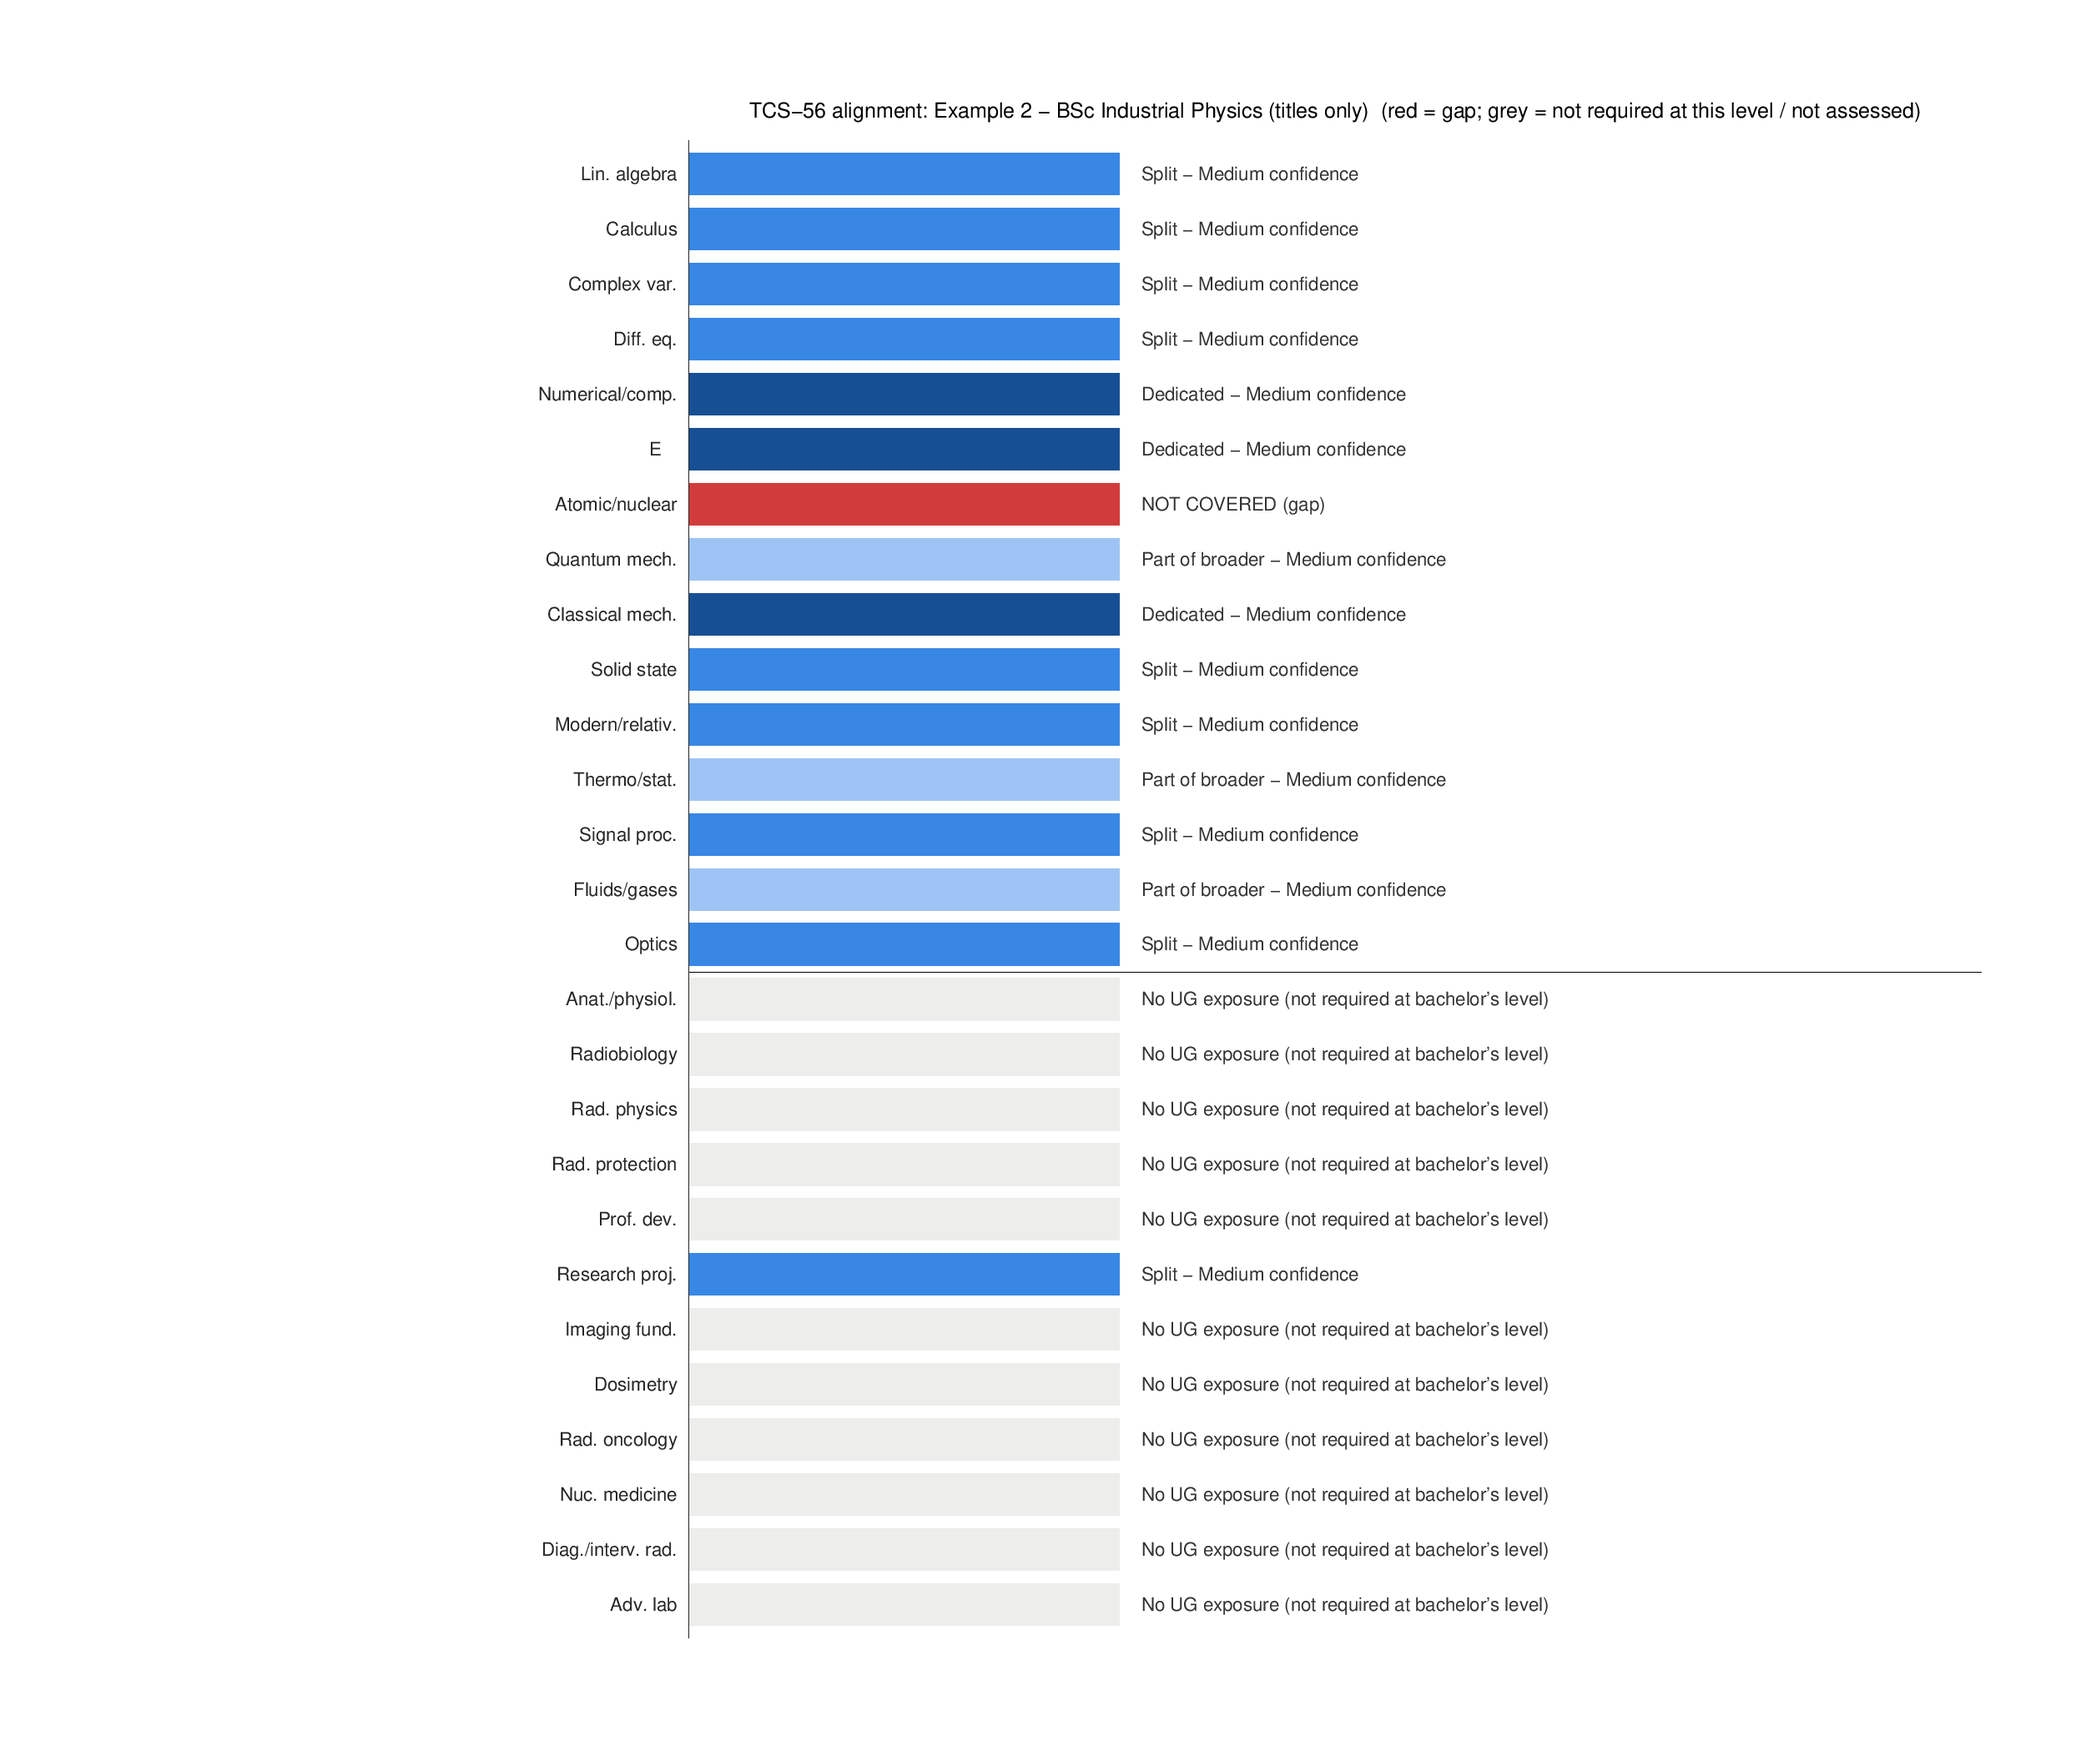
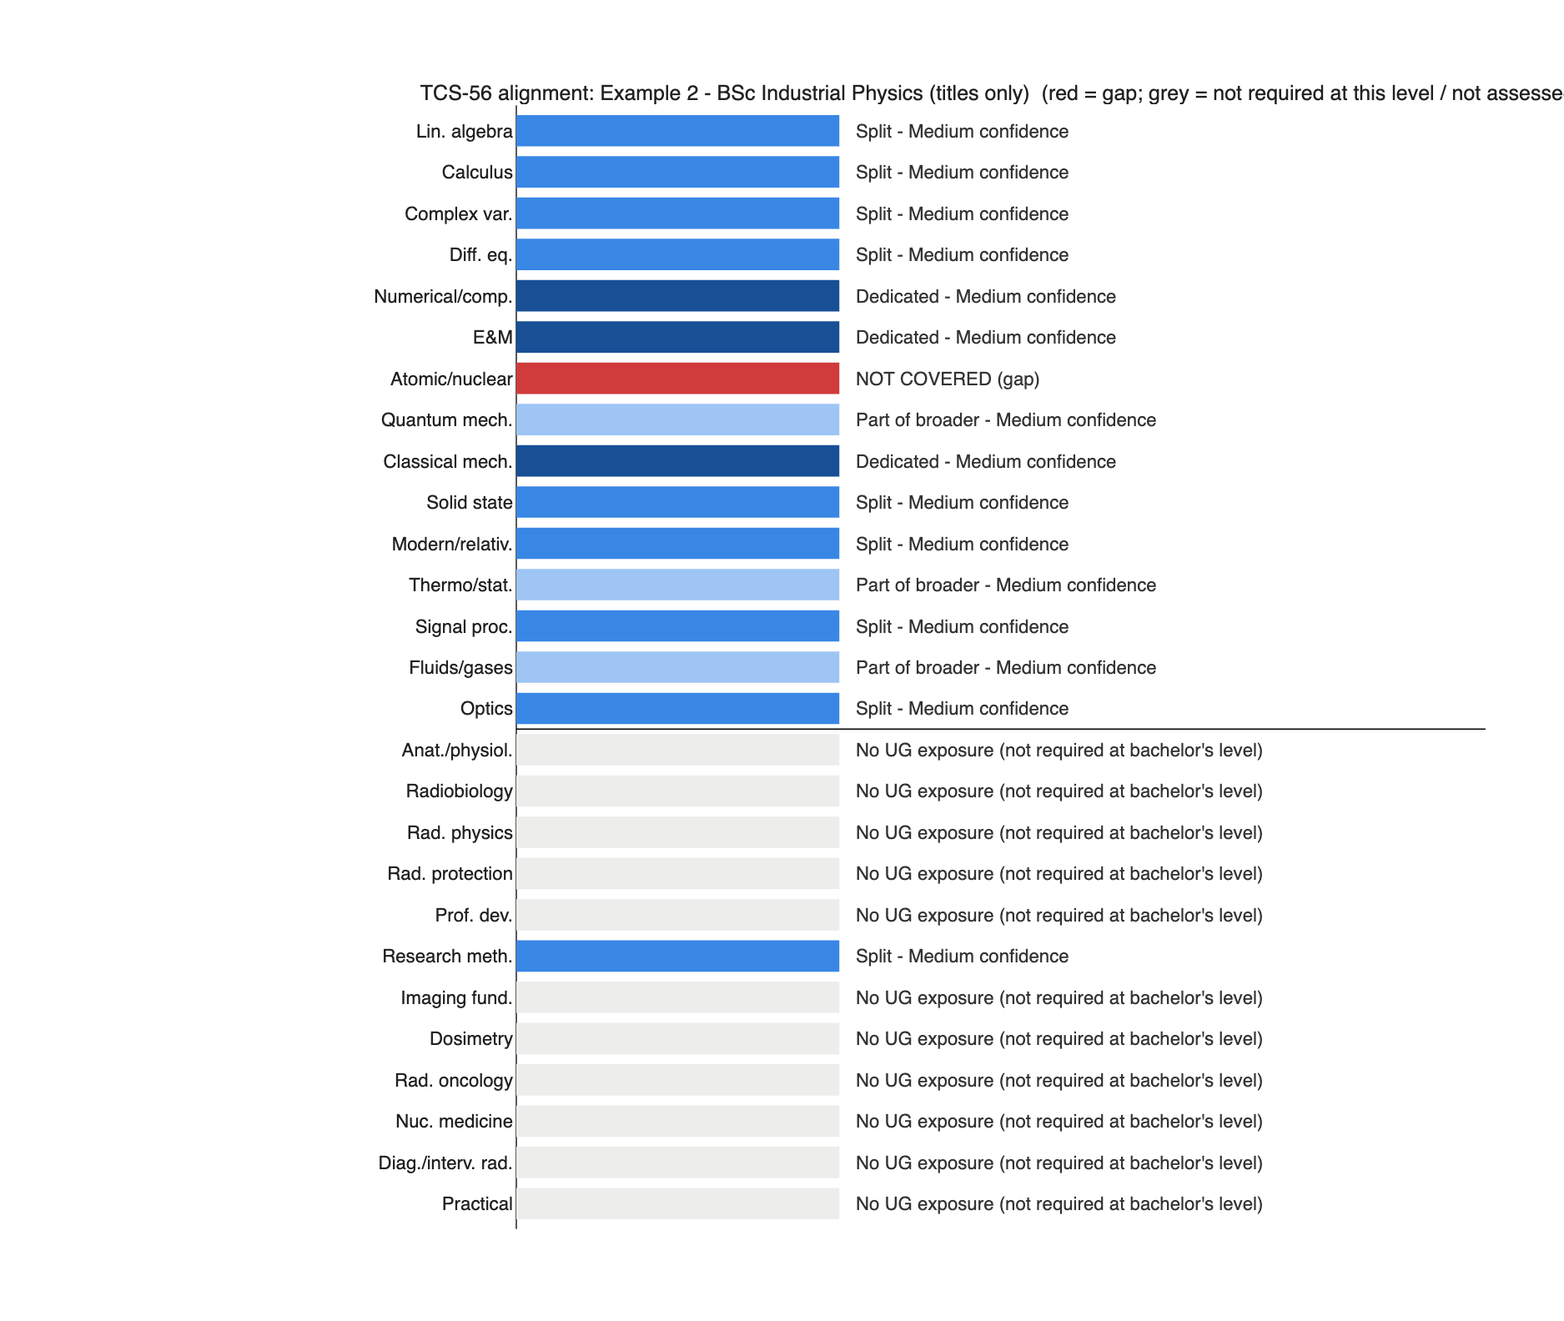
Regenerate example 2 output in MATLAB (TCS-56 item names)
Claude-Session: https://claude.ai/code/session_017GkgYiC1FGVQHbA2DuZDiu

Changed region(s): [[0.2475, 0.0619, 1.0, 0.928]]

diff --git a/examples/output/ex2/assessment_report.md b/examples/output/ex2/assessment_report.md
@@ -1,6 +1,6 @@
 # TCS-56 alignment: Example 2 - BSc Industrial Physics (titles only)
 
-Level: Bachelor. Input: University (course list). Generated 2026-11-16.
+Level: Bachelor. Input: University (course list). Generated 2026-11-20.
 
 ## Summary
 
@@ -38,13 +38,13 @@ Level: Bachelor. Input: University (course list). Generated 2026-11-16.
 | Radiation Physics | Not covered; App. A: Not covered |  |  | No undergraduate exposure found. TCS-56 places this item in the postgraduate curriculum, so this is not a bachelor's-level gap. |
 | Radiation Protection | Not covered; App. A: Not covered |  |  | No undergraduate exposure found. TCS-56 places this item in the postgraduate curriculum, so this is not a bachelor's-level gap. |
 | Professional and Scientific Development | Not covered; App. A: Not covered |  |  | No undergraduate exposure found. TCS-56 places this item in the postgraduate curriculum, so this is not a bachelor's-level gap. |
-| Research Project | Split; App. A: Split | Medium | Scientific Project I (Medium); Scientific Project II (Medium) |  |
+| Research Methodology | Split; App. A: Split | Medium | Scientific Project I (Medium); Scientific Project II (Medium) |  |
 | Medical Imaging Fundamentals | Not covered; App. A: Not covered |  |  | No undergraduate exposure found. TCS-56 places this item in the postgraduate curriculum, so this is not a bachelor's-level gap. |
 | Radiation Dosimetry | Not covered; App. A: Not covered |  |  | No undergraduate exposure found. TCS-56 places this item in the postgraduate curriculum, so this is not a bachelor's-level gap. |
 | Physics of Radiation Oncology | Not covered; App. A: Not covered |  |  | No undergraduate exposure found. TCS-56 places this item in the postgraduate curriculum, so this is not a bachelor's-level gap. |
 | Physics of Nuclear Medicine | Not covered; App. A: Not covered |  |  | No undergraduate exposure found. TCS-56 places this item in the postgraduate curriculum, so this is not a bachelor's-level gap. |
 | Physics of Diagnostic and Interventional Radiology | Not covered; App. A: Not covered |  |  | No undergraduate exposure found. TCS-56 places this item in the postgraduate curriculum, so this is not a bachelor's-level gap. |
-| Advanced topics laboratory | Not covered; App. A: Not covered |  |  | No undergraduate exposure found. TCS-56 places this item in the postgraduate curriculum, so this is not a bachelor's-level gap. |
+| Practical Sessions | Not covered; App. A: Not covered |  |  | No undergraduate exposure found. TCS-56 places this item in the postgraduate curriculum, so this is not a bachelor's-level gap. |
 
 ## Gaps
 
